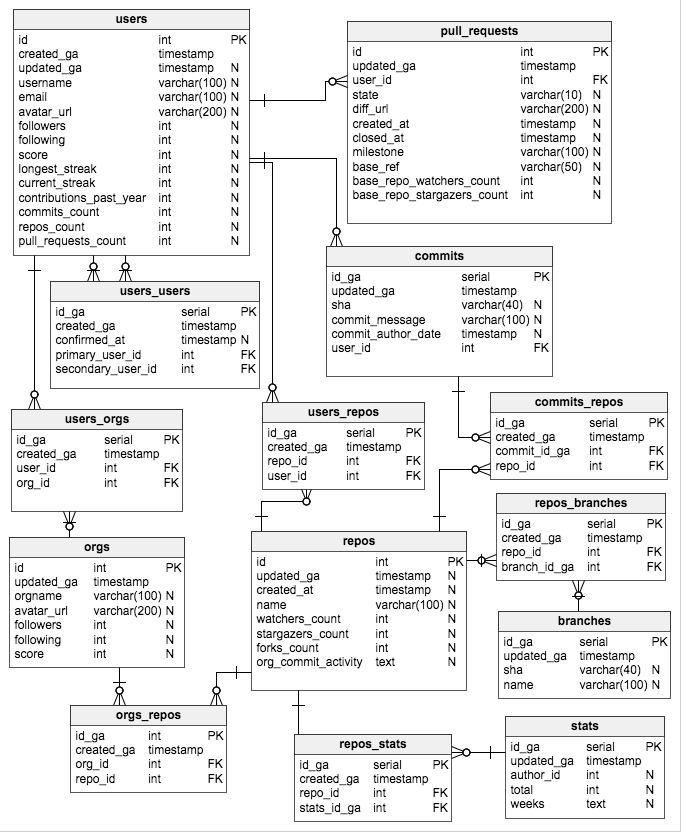
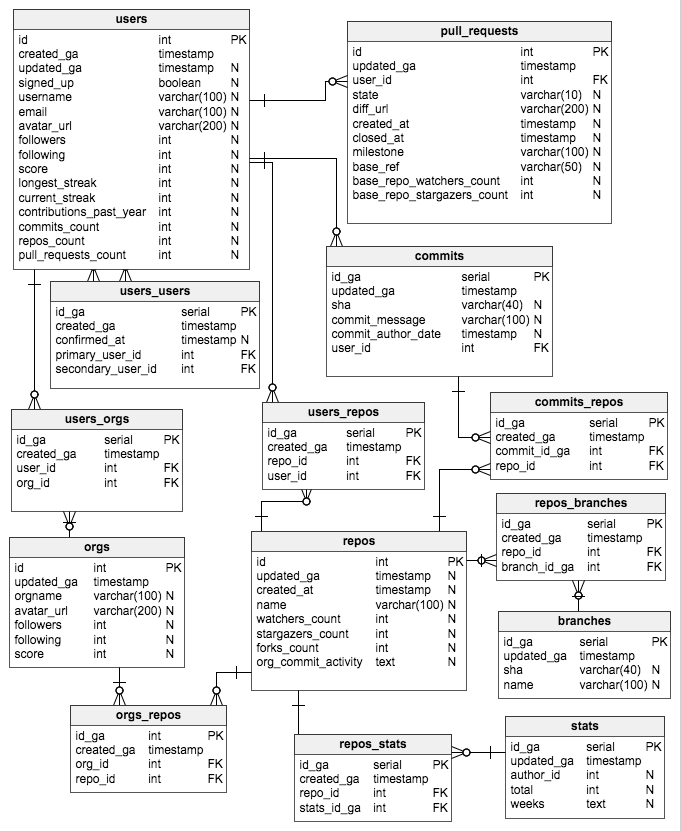
(Fix) edit schema and auth to include signed_up field in users table

Changed region(s): [[0.0308, 0.0938, 0.2159, 0.3438], [0.2159, 0.0938, 0.3392, 0.1562], [0.3392, 0.2812, 0.37, 0.3125]]

diff --git a/server/helpers/auth.js b/server/helpers/auth.js
@@ -23,13 +23,12 @@ const getOrAddUser = function(accessToken, refreshToken, profile, callback) {
   
   
   // add the user to our database, or update them if they already exist
-  db.any('INSERT INTO $1~ AS $2~ ($3~, $4~, $5~, $6~, $7~, $8~, $9~) ' +
-    'VALUES ($10, $11, $12, $13, $14, $15, $16) ' +
-    'ON CONFLICT ($3~) ' +
-    'DO UPDATE SET ($4~, $5~, $17~, $7~, $8~, $9~) = ($11, $12, $13, $14, $15, $16) ' +
-    'WHERE $2~.$3~ = $10',
-    ['users', 'u', 'id', 'username', 'email', 'created_ga', 'avatar_url', 'followers', 'following',
-    id, username, email, dbTimestamp, avatar_url, followers, following, 'updated_ga'])
+  db.any('INSERT INTO users AS u (id, username, email, created_ga, updated_ga, signed_up, avatar_url, followers, following) ' +
+    'VALUES ($1, $2, $3, $4, $5, $6, $7, $8, $9) ' +
+    'ON CONFLICT (id) ' +
+    'DO UPDATE SET (username, email, updated_ga, signed_up, avatar_url, followers, following) = ($2, $3, $4, $6, $7, $8, $9) ' +
+    'WHERE u.id = $1',
+    [id, username, email, dbTimestamp, null, true, avatar_url, followers, following])
     .then((data) => {
       return callback(null, {data: profile._json, token: accessToken});    
     })

diff --git a/server/controllers/friendController.js b/server/controllers/friendController.js
@@ -42,6 +42,9 @@ exports.retrieveFriends = function(req, res) {
 
 // POST at '/api/v1/users/:id/friends'
 
+/* NOTE by Alex - this is the most current version of the function, still a work in progress
+Just commenting it out while I fix other issues, to be resolved later
+
 exports.addFriend = function(req, res) {
   // this is the person sending the invitation to compete
   const primaryUserId = req.params.id; 
@@ -152,8 +155,8 @@ exports.addFriend = function(req, res) {
     });
 };
 
-
-exports.addFriend1 = function(req, res) {
+*/
+exports.addFriend = function(req, res) {
   // this is the person sending the invitation to compete
   const primaryUserId = req.params.id; 
   // this is the person receiving the invitation to compete
